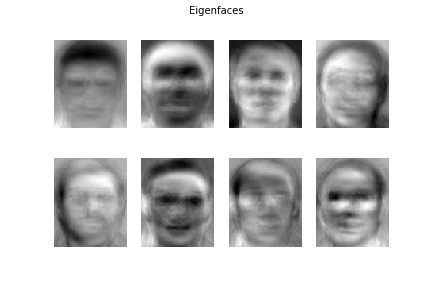
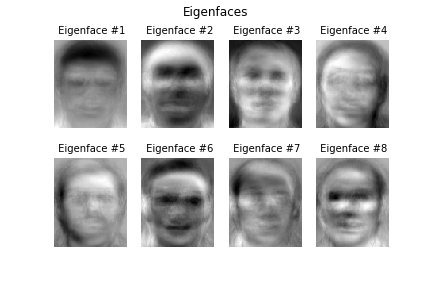
cleaned and commented
Still need to organize eigenface reconstruction plot

diff --git a/ece5831_hw2.py b/ece5831_hw2.py
@@ -5,66 +5,39 @@ Created on Wed Nov  8 21:25:26 2017
 
 @author: tombrady
 """
-
 import numpy as np
 from cleanup import *
 
 
 if 1:
-    # read in the faces and number of images
-    [trainingFaces,trainingFacesCount] = readImages('/Users/tbrady/drive/sw/att_faces/')
-    
-    # dimensions of the picture size
-    dims = trainingFaces[0].shape
-    
-    # initialize an empty vector of m x n length
-    L = np.empty((trainingFaces[0].size, 0), dtype='float64')
-    
-    # create a matrix, gamma, of image vectors as long as the number of faces
-    for col in trainingFaces:
+## read in faces
+    fpath   = '/Users/tbrady/drive/sw/att_faces/'
+    [tFaces,tFacesCount] = readImages(fpath)    # read in the faces and number of images
+    dims    = tFaces[0].shape                   # dimensions m, n of the picture size
+    vecLen  = tFaces[0].size                    # length of the gamma vector m x n
+
+## being PCA 
+    L = np.empty((vecLen, 0), dtype='float64')  # initialize an empty vector of m x n length
+    for col in tFaces:                          # create a matrix, gamma, of image vectors as long as the number of faces
         L = np.hstack((L ,np.asarray(col).reshape(-1, 1)))
-    
-    # average the vectors to create and average face
-    meanVector  = np.array(L.mean(axis=1))
-    
-    # subtract the mean vector from the original images
-    #t he double transpose is due to how the vectors are handled in numpy
-    A       = (L.T - meanVector).T
-    
-    # the dot product of transposed difference matrix and original matrix
-    C       = np.dot(A.T,A)
-    
-    # calculate the eigenvectors and eigenvalues
-    [v, u]  = np.linalg.eig(C)
-    
-    # sort them by largest eigenvalues
-    idx     = np.argsort(-v)
-    
-    # reorganize the eigenvalues by the sorted index
-    v       = v[idx]
-    
-    # reorganize the eigenvectors by the sorted index
-    u       = u[:,idx]
-    
-    # create the eigen faces
-    U       = np.dot(A, u) 
-    
-    # normalize the eigenface matrix U   
-    U       = U / np.linalg.norm(U, axis=0)
+    meanVector  = np.array(L.mean(axis=1))      # average the vectors to create and average face
+#    printVector(meanVector, dims)               # display the average face
+    A       = (L.T - meanVector).T              # subtract the mean vector from the original images
+    C       = np.dot(A.T,A)                     # the dot product of transposed difference matrix and original matrix
+    [v, u]  = np.linalg.eig(C)                  # calculate the eigenvectors and eigenvalues
+    idx     = np.argsort(-v)                    # sort them by largest eigenvalues
+    v       = v[idx]                            # reorganize the eigenvalues by the sorted index
+    u       = u[:,idx]                          # reorganize the eigenvectors by the sorted index
+    U       = np.dot(A, u)                      # create the eigenfaces
+    U       = U / np.linalg.norm(U, axis=0)     # normalize the eigenface matrix U 
 
 ## display eigenfaces
-#numFaces = 8
-#E = []
-#for i in range(0, numFaces):
-#    e = U[:,i].reshape(dims)
-#    E.append(normalize(e,0,255))
-#
-##printVector(meanVector, dims)
-#
-#subplot(title="Eigenfaces", images=E, rows=numFaces/4, \
-#        cols=4, sptitle=" Eigenface", colormap=cm.gist_yarg, \
-#        filename="python_pca_eigenfaces.png")
-
+numFaces    = 8                                 # number of faces to show
+E           = []                                # new array containing faces
+for i in range(0, numFaces):
+    e       = U[:,i].reshape(dims)              # reshape the vector to the original picture size m x n
+    E.append(normalize(e,0,255))                # append to the face array
+subplot(title="Eigenfaces", images=E, sptitle=" Eigenface", colormap=cm.gist_yarg)
 
 ### reconstruct random test face from computed eigenfaces
 #[testFace, count] = readImages('/Users/tbrady/drive/sw/test_faces/')
@@ -72,16 +45,22 @@ if 1:
 #T = np.empty((testFace[0].size, 0), dtype='float64')
 #T = np.reshape(testFace, testFace[0].size)
 #
-#faces = 400
-#
+
+## face to reconstruct 
+#T = L[:,0]
+## number of eigenfaces to use    
+#faces = [10, 50, 100, 150, 200, 250, 300, 350]
+## start with the average face
 #reconFace = meanVector
-##
+#
 #psi = T - meanVector
-#w = np.dot(U[:,0].T, psi)
-#w = np.dot(U[:,0:faces].T, psi)
-#for i in range(0,faces):
+#
+##for j in range(0, len(faces)):
+#R = []
+#reconFace = meanVector
+#j = 3
+#w = np.dot(U[:,0:faces[j]].T, psi)
+#for i in range(0,faces[j]):
 #    reconFace += w[i]*U[:,i]
 #
-#printVector(reconFace, dims)
-
-
+##printVector(reconFace, dims)

diff --git a/cleanup.py b/cleanup.py
@@ -20,43 +20,24 @@ def printVector(v, dims):
     plt.axis('off')
     plt.imshow(e, cmap=cm.gray)
     
-    
-    
-
-def normalize(X, low, high, dtype=None):
+def normalize(X, low, high):
     X = np.asarray(X)
     minX , maxX = np.min(X), np.max(X)
-    # normalize to [0...1].
-    X = X - float(minX)
-    X = X / float((maxX - minX))
-    # scale to [low...high].
-    X = X * (high-low)
-    X = X + low
-    if dtype is None:
-        return np.asarray(X)
-    return np.asarray(X, dtype=dtype) 
+    X = (X - float(minX)) / float((maxX - minX))        # normalize
+    X = X * (high-low) + low                            # scale from low to high
+    return np.asarray(X) 
 
 
-def subplot(title, images, rows, cols, sptitle="subplot", \
-            sptitles=[], colormap=cm.gray, ticks_visible=True,\
-            filename=None):
+def subplot(title, images, sptitle='subplot', colormap=cm.gray):
     fig = plt.figure()
-    # main title
-    fig.text(.5, .95, title, horizontalalignment='center')
+    fig.suptitle(title, horizontalalignment='center')
+    
     for i in range(len(images)):
-        ax0 = fig.add_subplot(rows,cols,(i+1))
-        plt.setp(ax0.get_xticklabels(), visible=False)
-        plt.setp(ax0.get_yticklabels(), visible=False)
-#        if len(sptitles) == len(images):
-#            plt.title("%s #%s" % (sptitle, str(sptitles[i])))
-#        else:
-#            plt.title("%s #%d" % (sptitle, (i+1)))
+        ax0 = fig.add_subplot(2, 4,(i+1))
+        plt.title('#%d %s' % ((i+1), sptitle), fontsize = 10)
         plt.imshow(np.asarray(images[i]), cmap=colormap)
         plt.axis('off')
-    if filename is None:
-        plt.show()
-    else:
-        fig.savefig(filename)
+
 
 # read in all the images
 def readImages(path, sz=None): 
